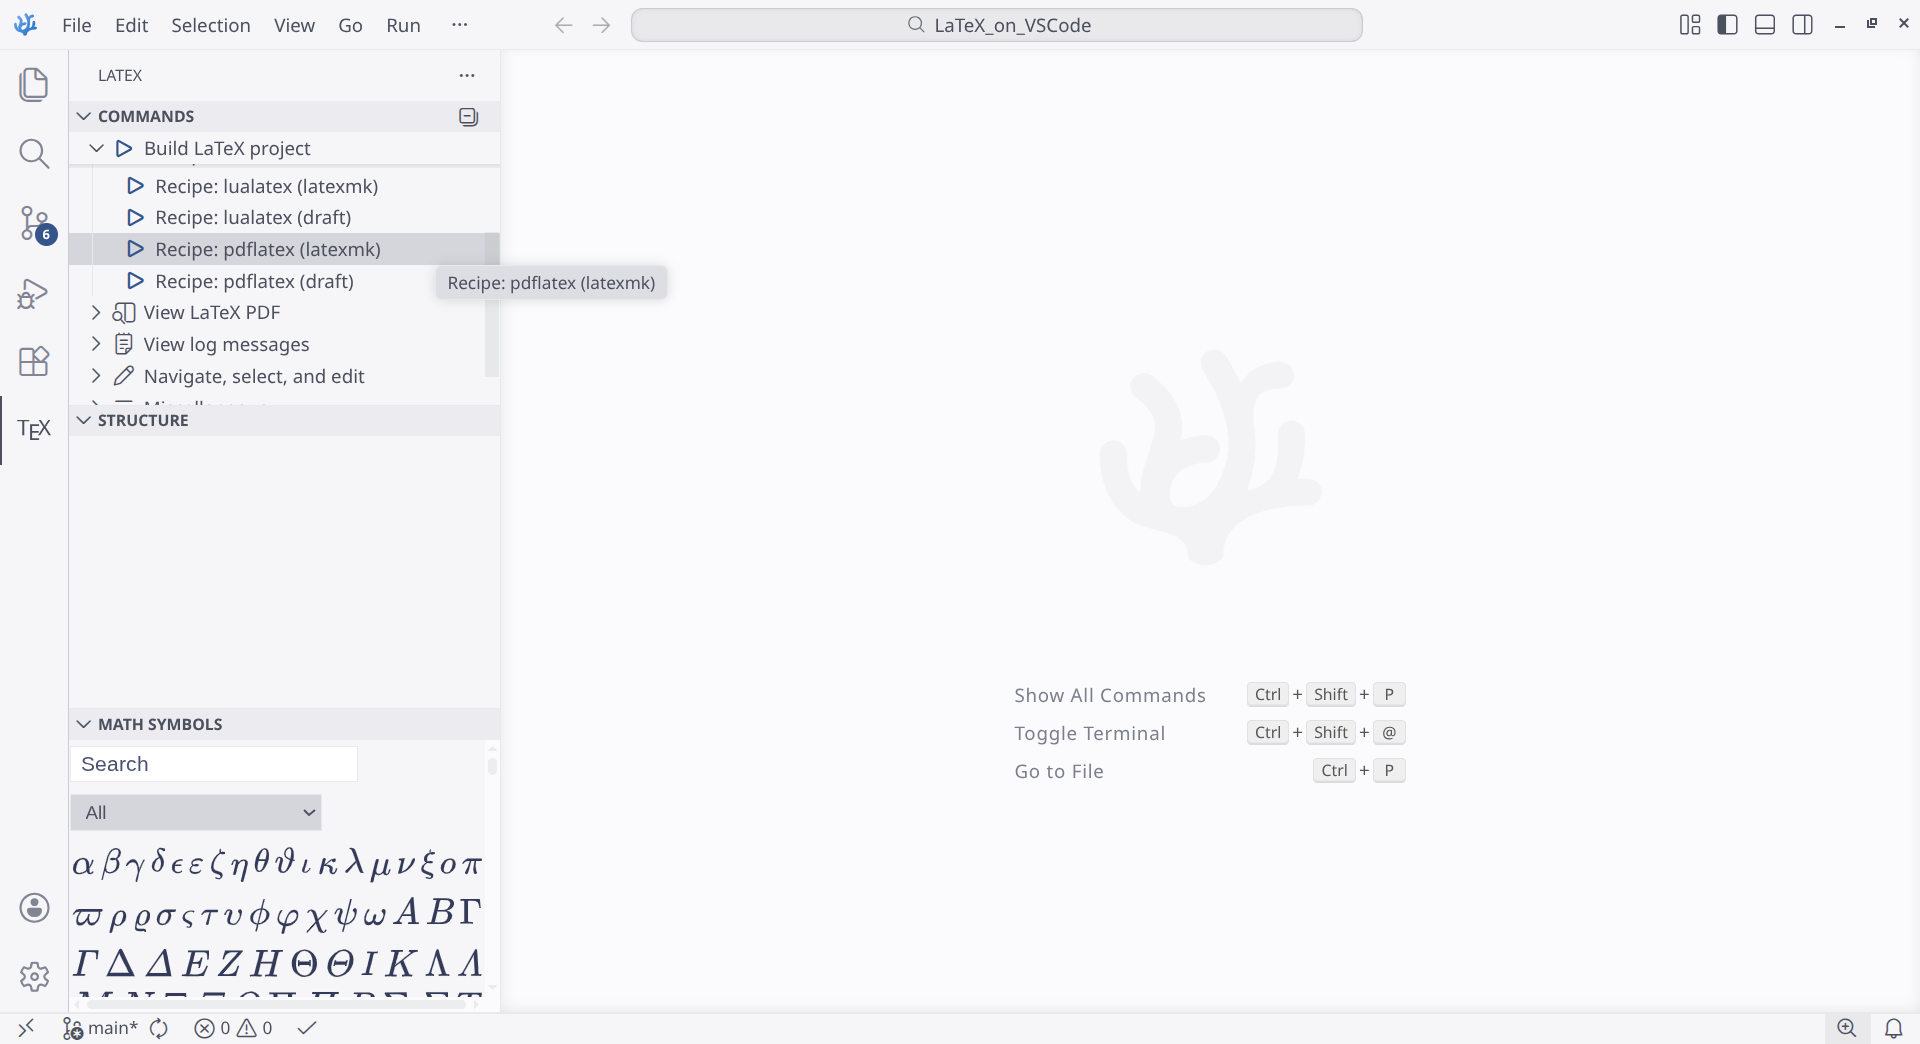
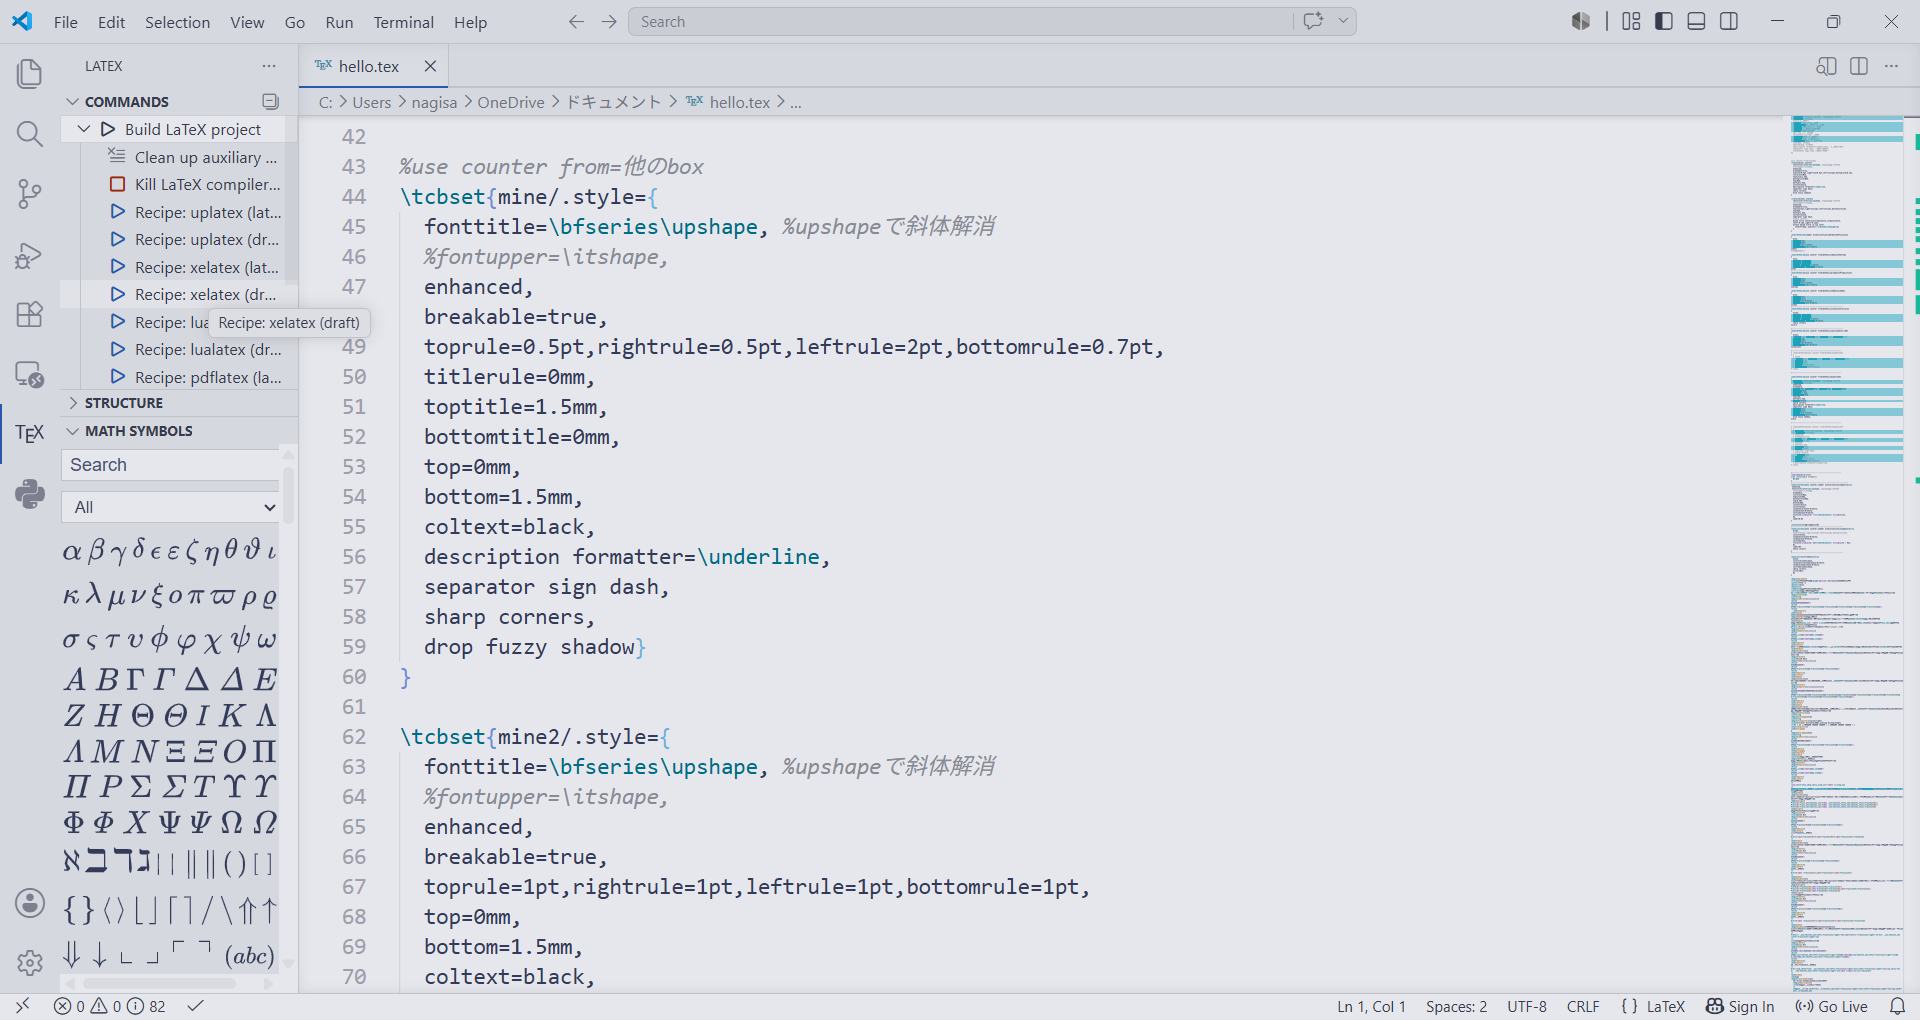
modified

Changed region(s): [[0.0, 0.0, 1.0, 1.0], [0.375, 0.5167, 0.4062, 0.5775]]

diff --git a/README.md b/README.md
@@ -1,24 +1,41 @@
 # LaTeX_on_VSCode
+これは, LaTeX環境をVSCodeのLaTeX Workshop拡張機能を用いてセットアップするためのjsonファイルです.
+
 This is a json file for building LaTeX environment on VSCode with LaTeX Workshop.
 
 # How to use
 
-1. Make sure TeXLive and VSCode are installed on your PC. You can check the installation of TeXLive by running command like this.
+1. TeXLive と VSCode がPCにインストールされていることを確認してください. 例えば, TeXLive がシステムにインストールされているかは, 
+    ```
+    latex --version
+    ```
+    のようなコマンドをターミナルに入力することで確認できます.
+    
+    Make sure TeXLive and VSCode are installed on your PC. You can check the installation of TeXLive by running command like this.
     ```
     latex --version
     ```
 
-1. Add extension "LaTeX Workshop " by James-Yu to your VSCode.
+1. James-Yu の, "LaTeX Workshop "という拡張機能をVSCodeにインストールします. 
+   
+   Add extension "LaTeX Workshop " by James-Yu to your VSCode.
 
     ![screenshot](screenshots/LaTeX-Workshop.png)
 
-1. Open settings.json in your VSCode.
+2. VSCodeの `setting.json` を開きます.
+   
+   Open `settings.json` in your VSCode.
 
     ![screenshot](screenshots/Setting-1.png)
 
     ![screenshot](screenshots/Setting-2.png)
 
-1. Add cord in `LaTeX_settings.json` in this repository to `settings.json` in your VSCode.
+3. このリポジトリにある, `LaTeX_setting.json` のコードを,  VSCodeの `settings.json` に追加します.
+    
+    Add cord in `LaTeX_settings.json` in this repository to `settings.json` in your VSCode.
+
+    
+    ![screenshot](screenshots/Setting-3.png)
 
     ```json
     //ソースコードの折り返し有効化
@@ -206,7 +223,13 @@ This is a json file for building LaTeX environment on VSCode with LaTeX Workshop
     ```
 
 
-1. You can choose a compile engine by typing 
+4. 検索窓に 
+    ```
+    > build with recipe
+    ```` 
+    と入力するか, 左側サイドバーのメニューから, コンパイルするエンジンを選ぶことができます.
+    
+    You can choose a compile engine by typing 
 
     ```
     > build with recipe
@@ -218,7 +241,9 @@ This is a json file for building LaTeX environment on VSCode with LaTeX Workshop
     ![screenshot](screenshots/Building-with-recipe2.png)
 
 
-1. You can also set your original shortcut.
+5. コンパイルエンジンのメニューを表示するための, オリジナルのショートカットを追加することもできます.
+   
+   You can also set your original shortcut to show compile menu.
 
 
 
